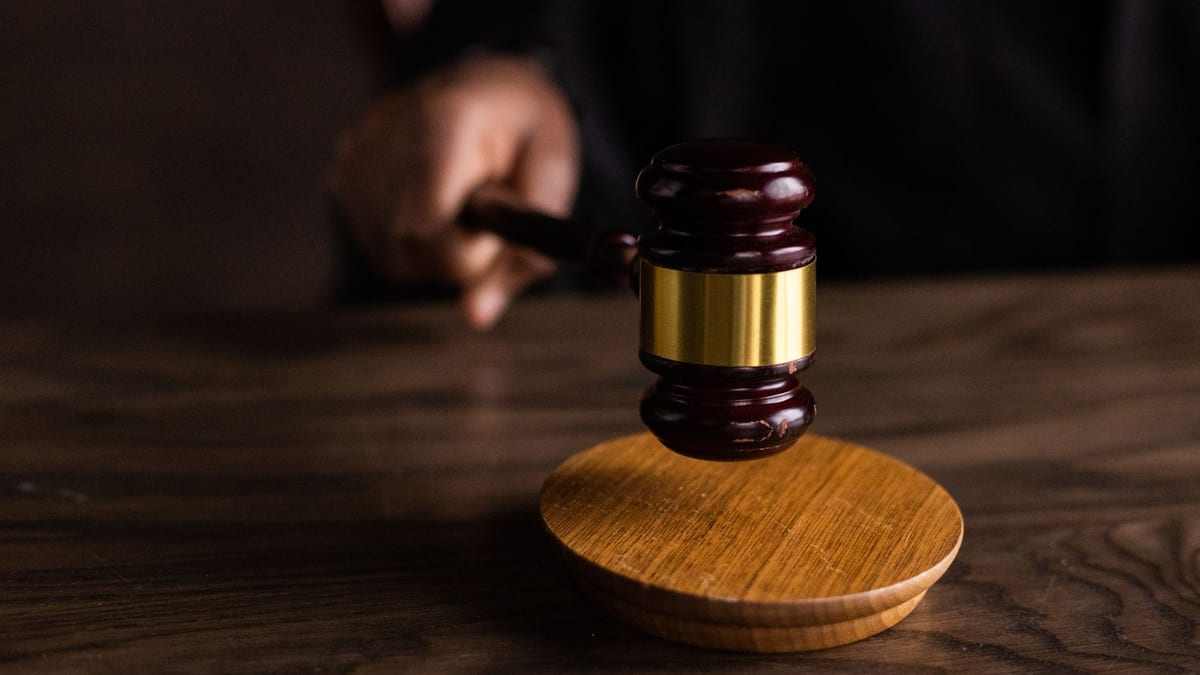
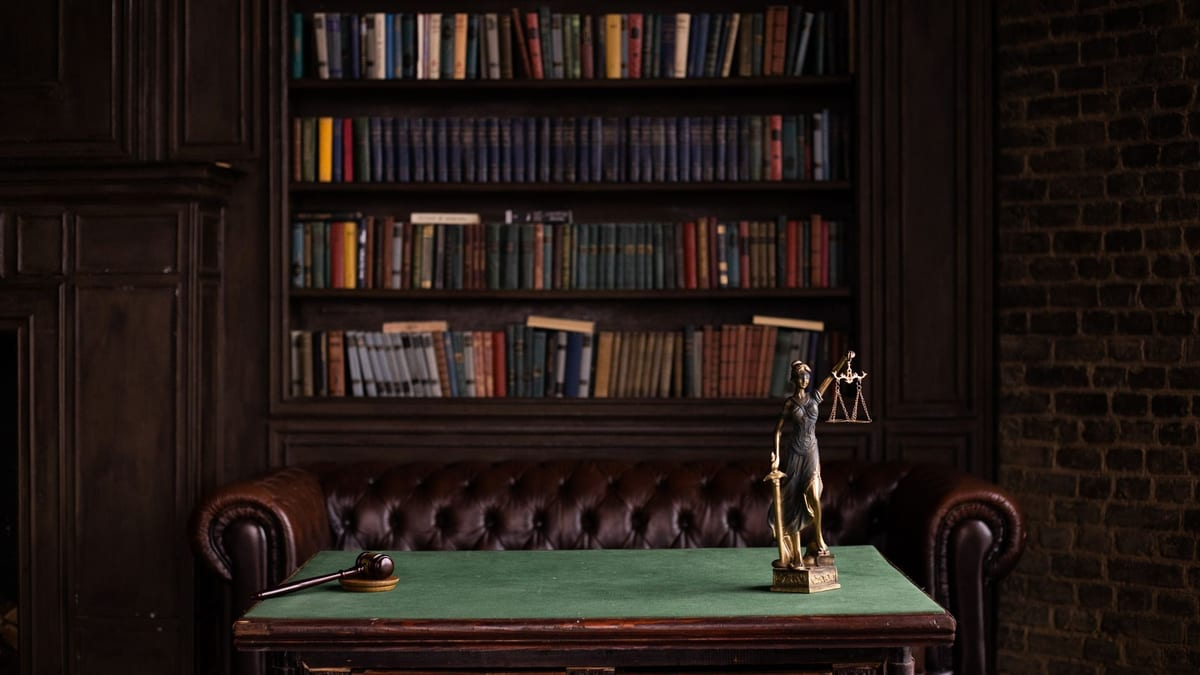
radar: صور AI مخصصة معبرة عن كل موضوع (Nano Banana اولاً) + استعلامات Pexels ادق + حذف الجمل الوصفية من العناوين

diff --git a/public/legal-radar.html b/public/legal-radar.html
@@ -20,7 +20,7 @@
   <link href="https://fonts.googleapis.com/css2?family=Cairo:wght@400;500;600;700;800;900&display=swap" rel="stylesheet">
   <script async src="https://pagead2.googlesyndication.com/pagead/js/adsbygoogle.js?client=ca-pub-7725405859334364" crossorigin="anonymous"></script>
 <script type="application/ld+json">{"@context":"https://schema.org","@type":"Organization","name":"منصة المحامي الرقمية","url":"https://mohamidigital.online","logo":"https://mohamidigital.online/logo.png"}</script>
-<script type="application/ld+json">{"@context":"https://schema.org","@type":"NewsArticle","headline":"قانون التصالح في مخالفات البناء: تسهيلات جديدة لتقنين أوضاع العقارات","datePublished":"2026-08-09T07:55:45.199Z","dateModified":"2026-08-09T07:55:45.199Z","inLanguage":"ar-EG","author":{"@type":"Organization","name":"منصة المحامي الرقمية","url":"https://mohamidigital.online"},"publisher":{"@type":"Organization","name":"منصة المحامي الرقمية","url":"https://mohamidigital.online"},"mainEntityOfPage":"https://mohamidigital.online/legal-radar.html"}</script>
+<script type="application/ld+json">{"@context":"https://schema.org","@type":"NewsArticle","headline":"قانون التصالح في مخالفات البناء: تسهيلات جديدة لتقنين أوضاع العقارات","datePublished":"2026-08-09T08:00:22.952Z","dateModified":"2026-08-09T08:00:22.952Z","inLanguage":"ar-EG","author":{"@type":"Organization","name":"منصة المحامي الرقمية","url":"https://mohamidigital.online"},"publisher":{"@type":"Organization","name":"منصة المحامي الرقمية","url":"https://mohamidigital.online"},"mainEntityOfPage":"https://mohamidigital.online/legal-radar.html"}</script>
 <script type="application/ld+json">{"@context":"https://schema.org","@type":"BreadcrumbList","itemListElement":[{"@type":"ListItem","position":1,"name":"الرئيسية","item":"https://mohamidigital.online"},{"@type":"ListItem","position":2,"name":"رصد المحامي","item":"https://mohamidigital.online/legal-radar.html"}]}</script>
   <style>
     *, *::before, *::after { box-sizing: border-box; margin: 0; padding: 0; }
@@ -165,17 +165,16 @@
     <div class="badge">📡 نشرة يومية — ترندات مصر والعالم</div>
     <h1>رصد المحامي</h1>
     <p>نشرة يومية تُصاغ بالذكاء الاصطناعي عن أهم الترندات المصرية والعالمية على Google، بتحليل عملي للمواطن والمحامي.</p>
-    <span class="updated">آخر تحديث: 2026-08-09 07:55:38 بتوقيت القاهرة</span>
+    <span class="updated">آخر تحديث: 2026-08-09 08:00:13 بتوقيت القاهرة</span>
   </div>
 
   <div class="section">
     <div class="section-title"><span class="dot"></span> موضوعات اليوم (2026-08-09)</div>
-    <p class="section-sub">اضغط على أي بطاقة لقراءة الموضوع كاملاً.</p>
     <div class="topic-grid">
     <details class="topic-card" id="topic-1">
     <summary class="topic-summary">
       <img class="topic-img" src="/radar-images/2026-08-09/tasaloh-building-law.jpg" alt="قانون التصالح في مخالفات البناء: تسهيلات جديدة لتقنين أوضاع العقارات" loading="lazy" width="1200" height="675" />
-      <span class="img-credit">📷 Vika Glitter — Pexels</span>
+      <span class="img-credit">📷 Mikael Blomkvist — Pexels</span>
       <div class="topic-head">
         <span class="topic-num">01</span>
         <div class="topic-body">
@@ -192,7 +191,7 @@
     <details class="topic-card" id="topic-2">
     <summary class="topic-summary">
       <img class="topic-img" src="/radar-images/2026-08-09/digital-legal-services.jpg" alt="التوسع في تقديم الخدمات الإلكترونية لتسهيل الإجراءات الحكومية والقضائية" loading="lazy" width="1200" height="675" />
-      <span class="img-credit">📷 Edmond Dantès — Pexels</span>
+      <span class="img-credit">📷 Erik Mclean — Pexels</span>
       <div class="topic-head">
         <span class="topic-num">02</span>
         <div class="topic-body">
